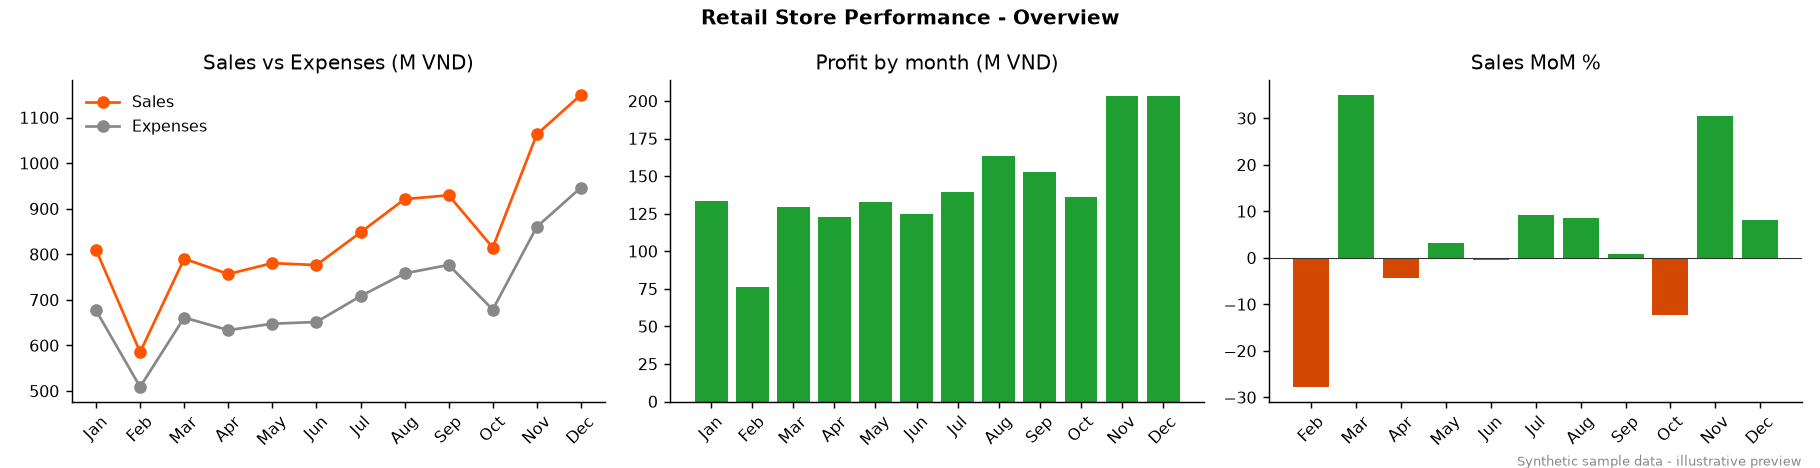
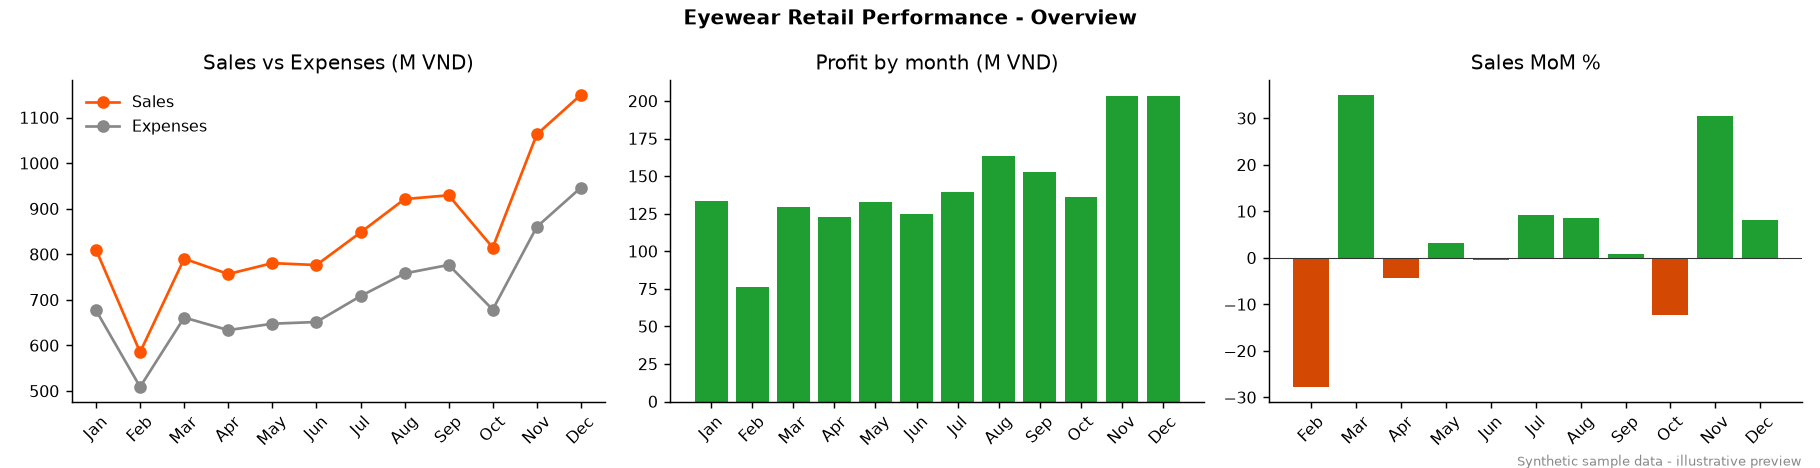
Describe the Kieng dashboard as an eyewear retail project

Changed region(s): [[0.3692, 0.0, 0.6462, 0.0598]]

diff --git a/tools/generate.py b/tools/generate.py
@@ -1,4 +1,4 @@
-"""Generate SYNTHETIC sample data, charts and sample reports for the portfolio.
+"""Generate SYNTHETIC sample data, charts and sample reports for the portfolio.
 All values are randomly generated (seed fixed) and do not come from any real company."""
 import numpy as np, pandas as pd, os
 import matplotlib
@@ -89,7 +89,7 @@ m_profit = m_sales - m_exp
 mn = [p.strftime("%b") for p in months]
 
 # retail charts
-fig, ax = plt.subplots(1, 3, figsize=(14, 3.6)); fig.suptitle("Retail Store Performance - Overview", fontweight="bold")
+fig, ax = plt.subplots(1, 3, figsize=(14, 3.6)); fig.suptitle("Eyewear Retail Performance - Overview", fontweight="bold")
 ax[0].plot(mn, m_sales / 1e6, color=C["main"], marker="o", label="Sales"); ax[0].plot(mn, m_exp / 1e6, color=C["grey"], marker="o", label="Expenses")
 ax[0].set_title("Sales vs Expenses (M VND)"); ax[0].legend(frameon=False)
 ax[1].bar(mn, m_profit / 1e6, color=[C["green"] if v >= 0 else C["red"] for v in m_profit]); ax[1].set_title("Profit by month (M VND)")
@@ -97,7 +97,7 @@ mom = m_sales.pct_change() * 100
 ax[2].bar(mn[1:], mom.iloc[1:], color=[C["green"] if v >= 0 else C["red"] for v in mom.iloc[1:]]); ax[2].set_title("Sales MoM %"); ax[2].axhline(0, color="#333", lw=.6)
 plt.setp(ax, xlabel=""); [a.tick_params(axis="x", rotation=45) for a in ax]; note(fig); fig.tight_layout(); fig.savefig(os.path.join(RET, "images", "01-overview.png"), dpi=130); plt.close(fig)
 
-fig, ax = plt.subplots(1, 3, figsize=(14, 3.8)); fig.suptitle("Retail Store Performance - Expenses, Product mix & Promotions", fontweight="bold")
+fig, ax = plt.subplots(1, 3, figsize=(14, 3.8)); fig.suptitle("Eyewear Retail Performance - Expenses, Product mix & Promotions", fontweight="bold")
 cat = exp.groupby("category").amount_vnd.sum().sort_values(ascending=False)
 ax[0].pie(cat, labels=cat.index, autopct="%1.0f%%", startangle=90, wedgeprops=dict(width=.45), textprops={"fontsize": 7}); ax[0].set_title("Expenses by category")
 tier = rev.groupby("product_tier").amount_vnd.sum()
@@ -106,7 +106,7 @@ pr = rev[rev.promotion_name != "None"].groupby("promotion_name").amount_vnd.sum(
 ax[2].barh(pr.index, pr / 1e6, color=C["main"]); ax[2].set_title("Sales by promotion (M VND)")
 note(fig); fig.tight_layout(); fig.savefig(os.path.join(RET, "images", "02-expenses-promotions.png"), dpi=130); plt.close(fig)
 
-fig, ax = plt.subplots(1, 2, figsize=(14, 3.6)); fig.suptitle("Retail Store Performance - Staff KPI & Stores", fontweight="bold")
+fig, ax = plt.subplots(1, 2, figsize=(14, 3.6)); fig.suptitle("Eyewear Retail Performance - Staff KPI & Stores", fontweight="bold")
 piv = kpi.pivot(index="month", columns="staff", values="total_made_vnd") / 1e6
 piv.plot(kind="bar", ax=ax[0], width=.85); ax[0].axhline(200, color="#333", ls="--", lw=.8); ax[0].set_title("Total made by staff vs KPI target (M VND)"); ax[0].legend(frameon=False, ncol=5, fontsize=7); ax[0].set_xticklabels(mn, rotation=45)
 ss = rev.merge(stores, on="store_id").groupby("store_name").amount_vnd.sum().sort_values()
@@ -224,3 +224,4 @@ open(os.path.join(CAR, "reports", "sample-annual-report-2025.md"), "w", encoding
 """)
 print("done", len(rev), len(rw))
 print(m_sales.sum() / 1e6, m_profit.sum() / 1e6, r_rev.sum(), r_profit.sum())
+

diff --git a/README.md b/README.md
@@ -1,4 +1,4 @@
-# Nguyen Thi Hong Nga — Data Analyst Portfolio
+# Nguyen Thi Hong Nga — Data Analyst Portfolio
 
 Data Analyst with an Economics background (UEH, Investment Economics, GPA 3.6/4.0, graduated with high distinction). I build automated ETL workflows, interactive dashboards and KPI / financial reports that support data-driven decisions.
 
@@ -12,13 +12,13 @@ Data Analyst with an Economics background (UEH, Investment Economics, GPA 3.6/4.
 
 | Project | Tools | Focus |
 |---|---|---|
-| [**Retail Store Performance Dashboard**](projects/retail-store-performance-powerbi) | Power BI, DAX, Power Query | Sales, expenses, profit, promotions and staff KPIs across stores *(synthetic data)* |
+| [**Eyewear Retail Performance Dashboard**](projects/retail-store-performance-powerbi) | Power BI, DAX, Power Query | Sales, expenses, profit, promotions and staff KPIs across eyewear stores *(synthetic data)* |
 | [**Car Rental Overview Dashboard**](projects/car-rental-overview-powerbi) | Power BI, DAX, Power Query | Revenue, expense groups, profit, fleet status and customer debt *(synthetic data)* |
 | [**LG Social Listening Dashboard**](projects/lg-social-listening-powerbi) | Power BI | Brand sentiment, content & demographic analysis, competitor benchmarking (washing machines) |
 | [**PayTM Customer Purchasing Analysis**](projects/paytm-customer-analysis-sql) | SQL (T-SQL), Excel | Top products, promotion effectiveness, Cohort retention, RFM segmentation |
 | [**Azuz Customer Behavior Analysis**](projects/azuz-customer-behavior-sql) | SQL (T-SQL) | Purchase patterns, gold-membership impact, loyalty-points program |
 
-> **Data note:** the two employer dashboards (Retail, Car Rental) use **synthetic data** generated for this portfolio to protect confidential company information. Their charts are illustrative previews, not production screenshots. The SQL projects and the LG Social Listening report are based on the original course/academic datasets.
+> **Data note:** the two employer dashboards (Eyewear Retail, Car Rental) use **synthetic data** generated for this portfolio to protect confidential company information. Their charts are illustrative previews, not production screenshots. The SQL projects and the LG Social Listening report are based on the original course/academic datasets.
 
 Source repositories: [Project-PAYTM](https://github.com/hongnganguyen/Project-PAYTM) · [Project-Azuz-Web](https://github.com/hongnganguyen/Project-Azuz-Web)
 
@@ -44,3 +44,4 @@ Source repositories: [Project-PAYTM](https://github.com/hongnganguyen/Project-PA
 - 3rd Prize, E-research Award 2022 (Faculty of Economics) · 2nd Prize, UEH Young Researcher 2022 · 3 GPA scholarships
 - IC3 Certificate · TOEIC 715
 - Courses: SQL & Python for Data Analysis (MazHocData), Excel for Analysis and Power BI Essential (Vy Le Training), Finance for Leaders (PACE Training)
+

diff --git a/projects/retail-store-performance-powerbi/README.md b/projects/retail-store-performance-powerbi/README.md
@@ -1,4 +1,4 @@
-# Retail Store Performance Dashboard — Power BI
+# Eyewear Retail Performance Dashboard (Kiếng) — Power BI
 
 **Tools:** Power BI (data modeling, DAX, Power Query), Excel
 **Currency:** VND · **Period shown:** 2025 (synthetic)
@@ -6,12 +6,12 @@
 > ⚠ **About the data.** The original dashboard was built for a real employer, so its data is confidential and is not published. All data in this folder is **synthetic**, randomly generated with the same table structure and the same kind of metrics as the real model. Charts below are *illustrative previews* made from that synthetic data; they are not screenshots of the production report and the numbers are not real business results.
 
 ## Business problem
-Management needed one place to monitor daily and monthly performance of a multi-store retail business: sales, every expense line, profit, promotion effectiveness and the sales team's KPIs, with month-over-month (MoM) comparison.
+Management needed one place to monitor daily and monthly performance of a multi-store eyewear (glasses) retail business: sales, every expense line, profit, promotion effectiveness and the sales team's KPIs, with month-over-month (MoM) comparison.
 
 ## Dashboard structure (3 pages)
 | Page | What it shows |
 |---|---|
-| **Overview** | Total sales, total expenses, profit and % profit margin vs. same period last month (SPLM); sales by product tier (Luxury / Premium); sales & expenses, profit and quantity trendlines; expenses breakdown (COG, Back Office, MKT, Warehouse, Cash Loss, Promo, Sales/Worker salary); sales by promotion (BOGO, B2G2, B3G1, B3G2, B3G3, B4G4…) |
+| **Overview** | Total sales, total expenses, profit and % profit margin vs. same period last month (SPLM); sales by product tier (Luxury / Premium / Standard eyewear); sales & expenses, profit and quantity trendlines; expenses breakdown (COG, Back Office, MKT, Warehouse, Cash Loss, Promo, Sales/Worker salary); sales by promotion (BOGO, B2G2, B3G1, B3G2, B3G3, B4G4…) |
 | **Worker** | Per-employee total made vs. previous month, KPI achievement, bonus and total salary, with month/year slicers |
 | **Location** | Map of sales by store address with expense breakdown per location |
 
@@ -33,3 +33,4 @@ Measures in the model (names): Total Sales, Sales Same Day Last Month, Total Exp
 
 ## How to reproduce
 Load the CSVs into Power BI Desktop (Get Data → Text/CSV), relate `daily_revenue[date]` and `expenses[month]` to `calendar`, `store_id` to `stores`, then build the measures above. The generator script is in [`/tools/generate.py`](../../tools/generate.py).
+
